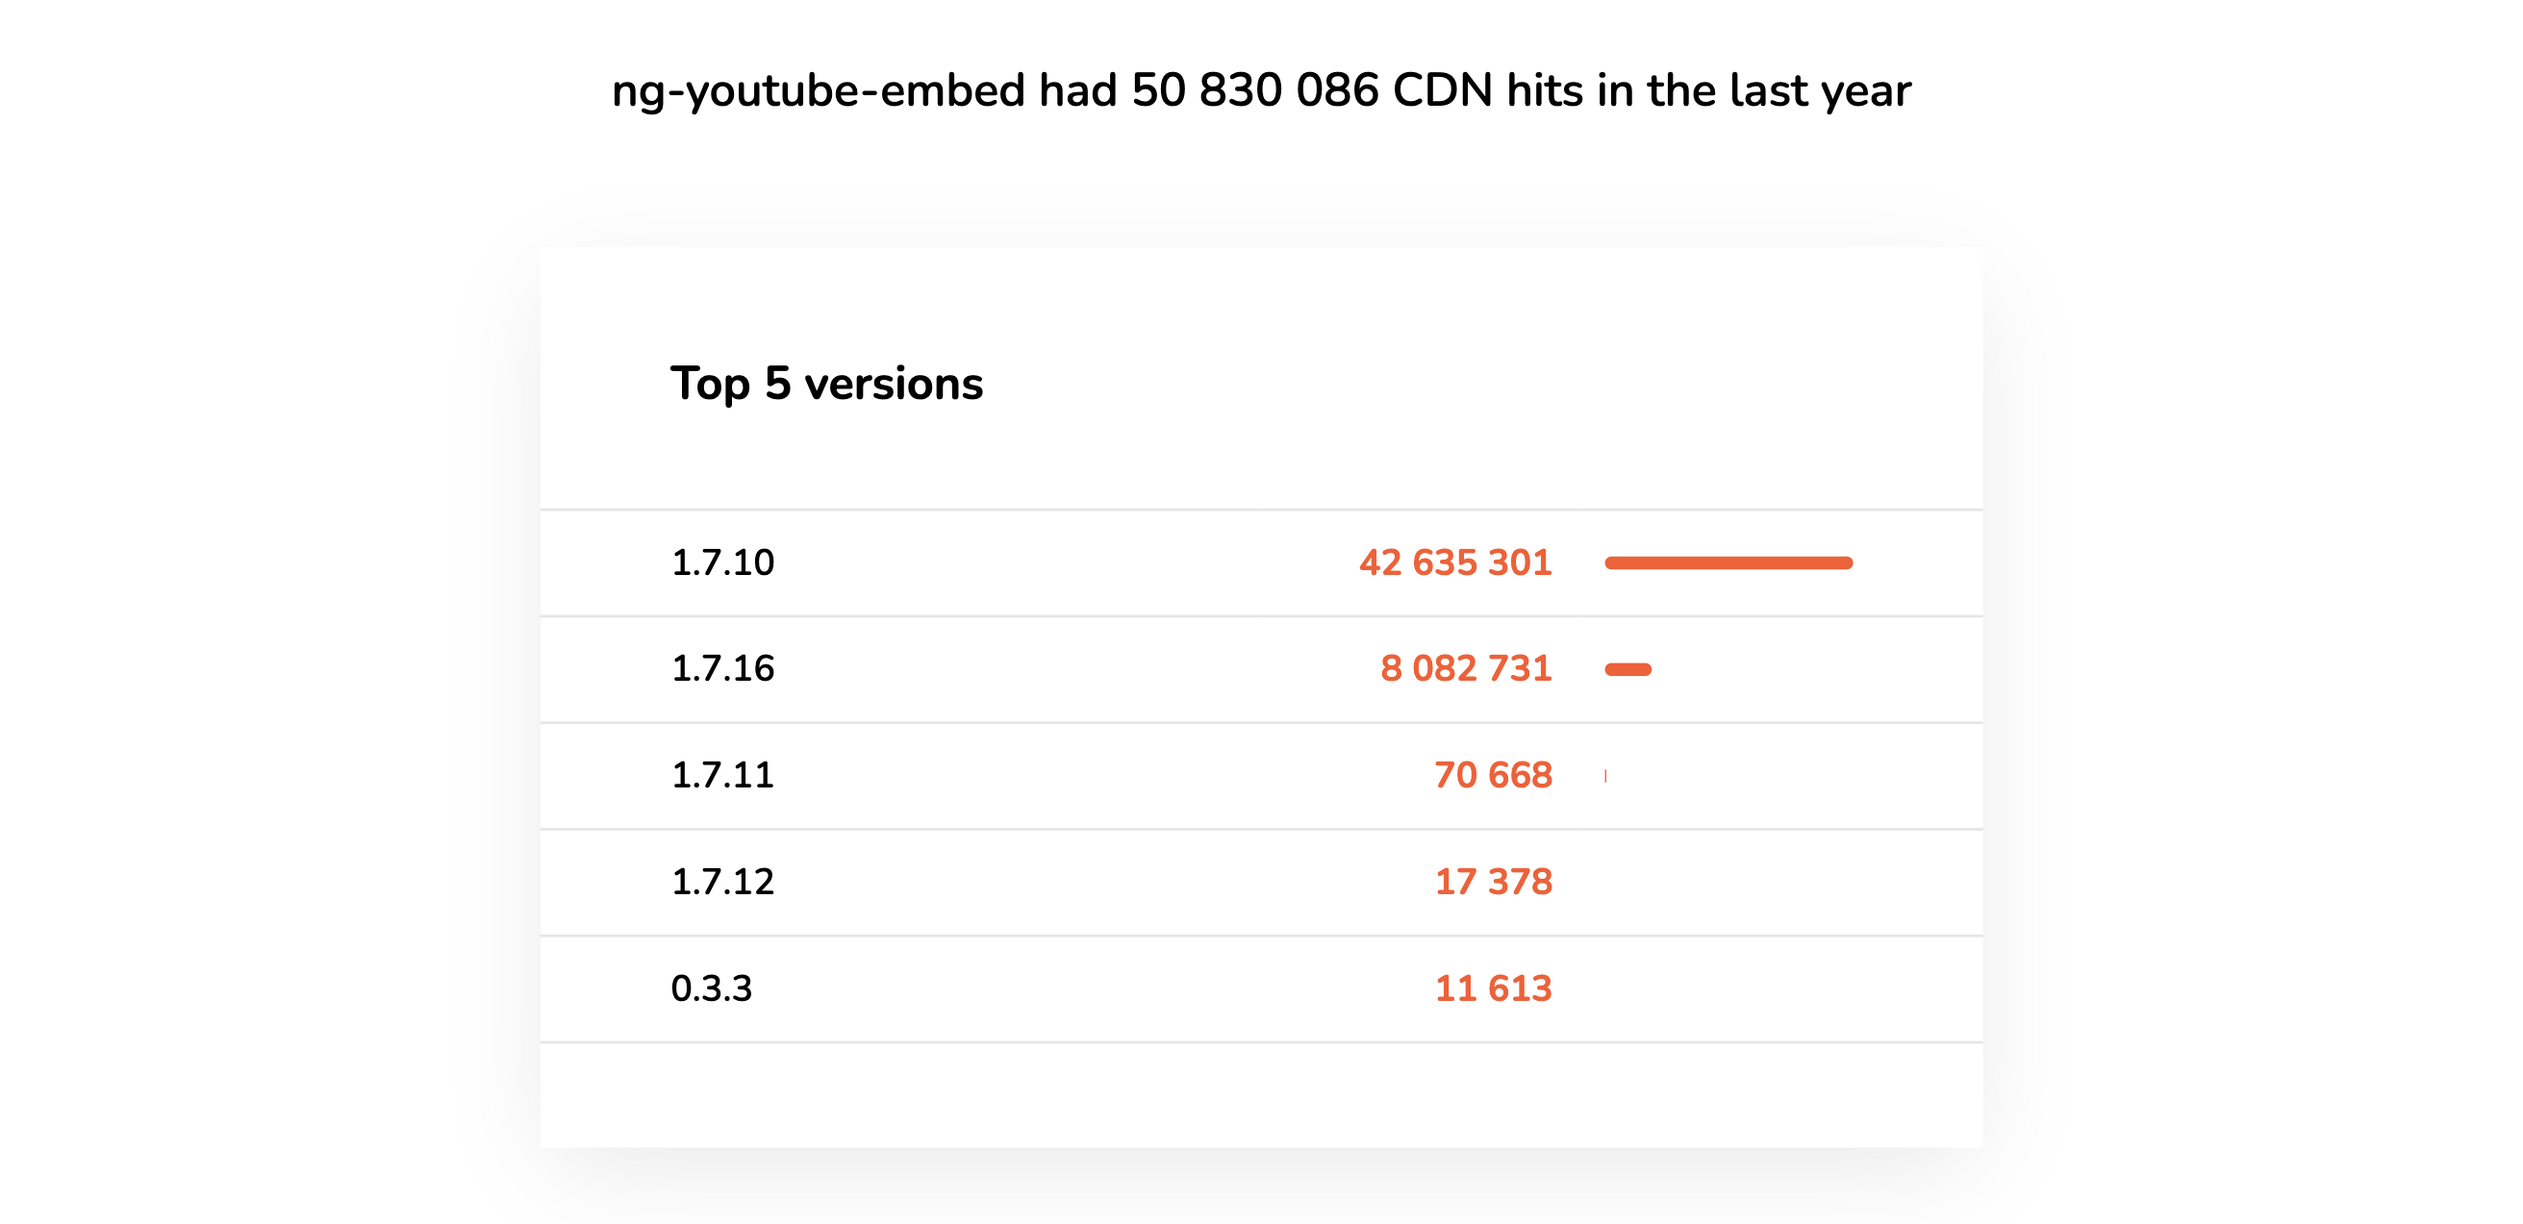
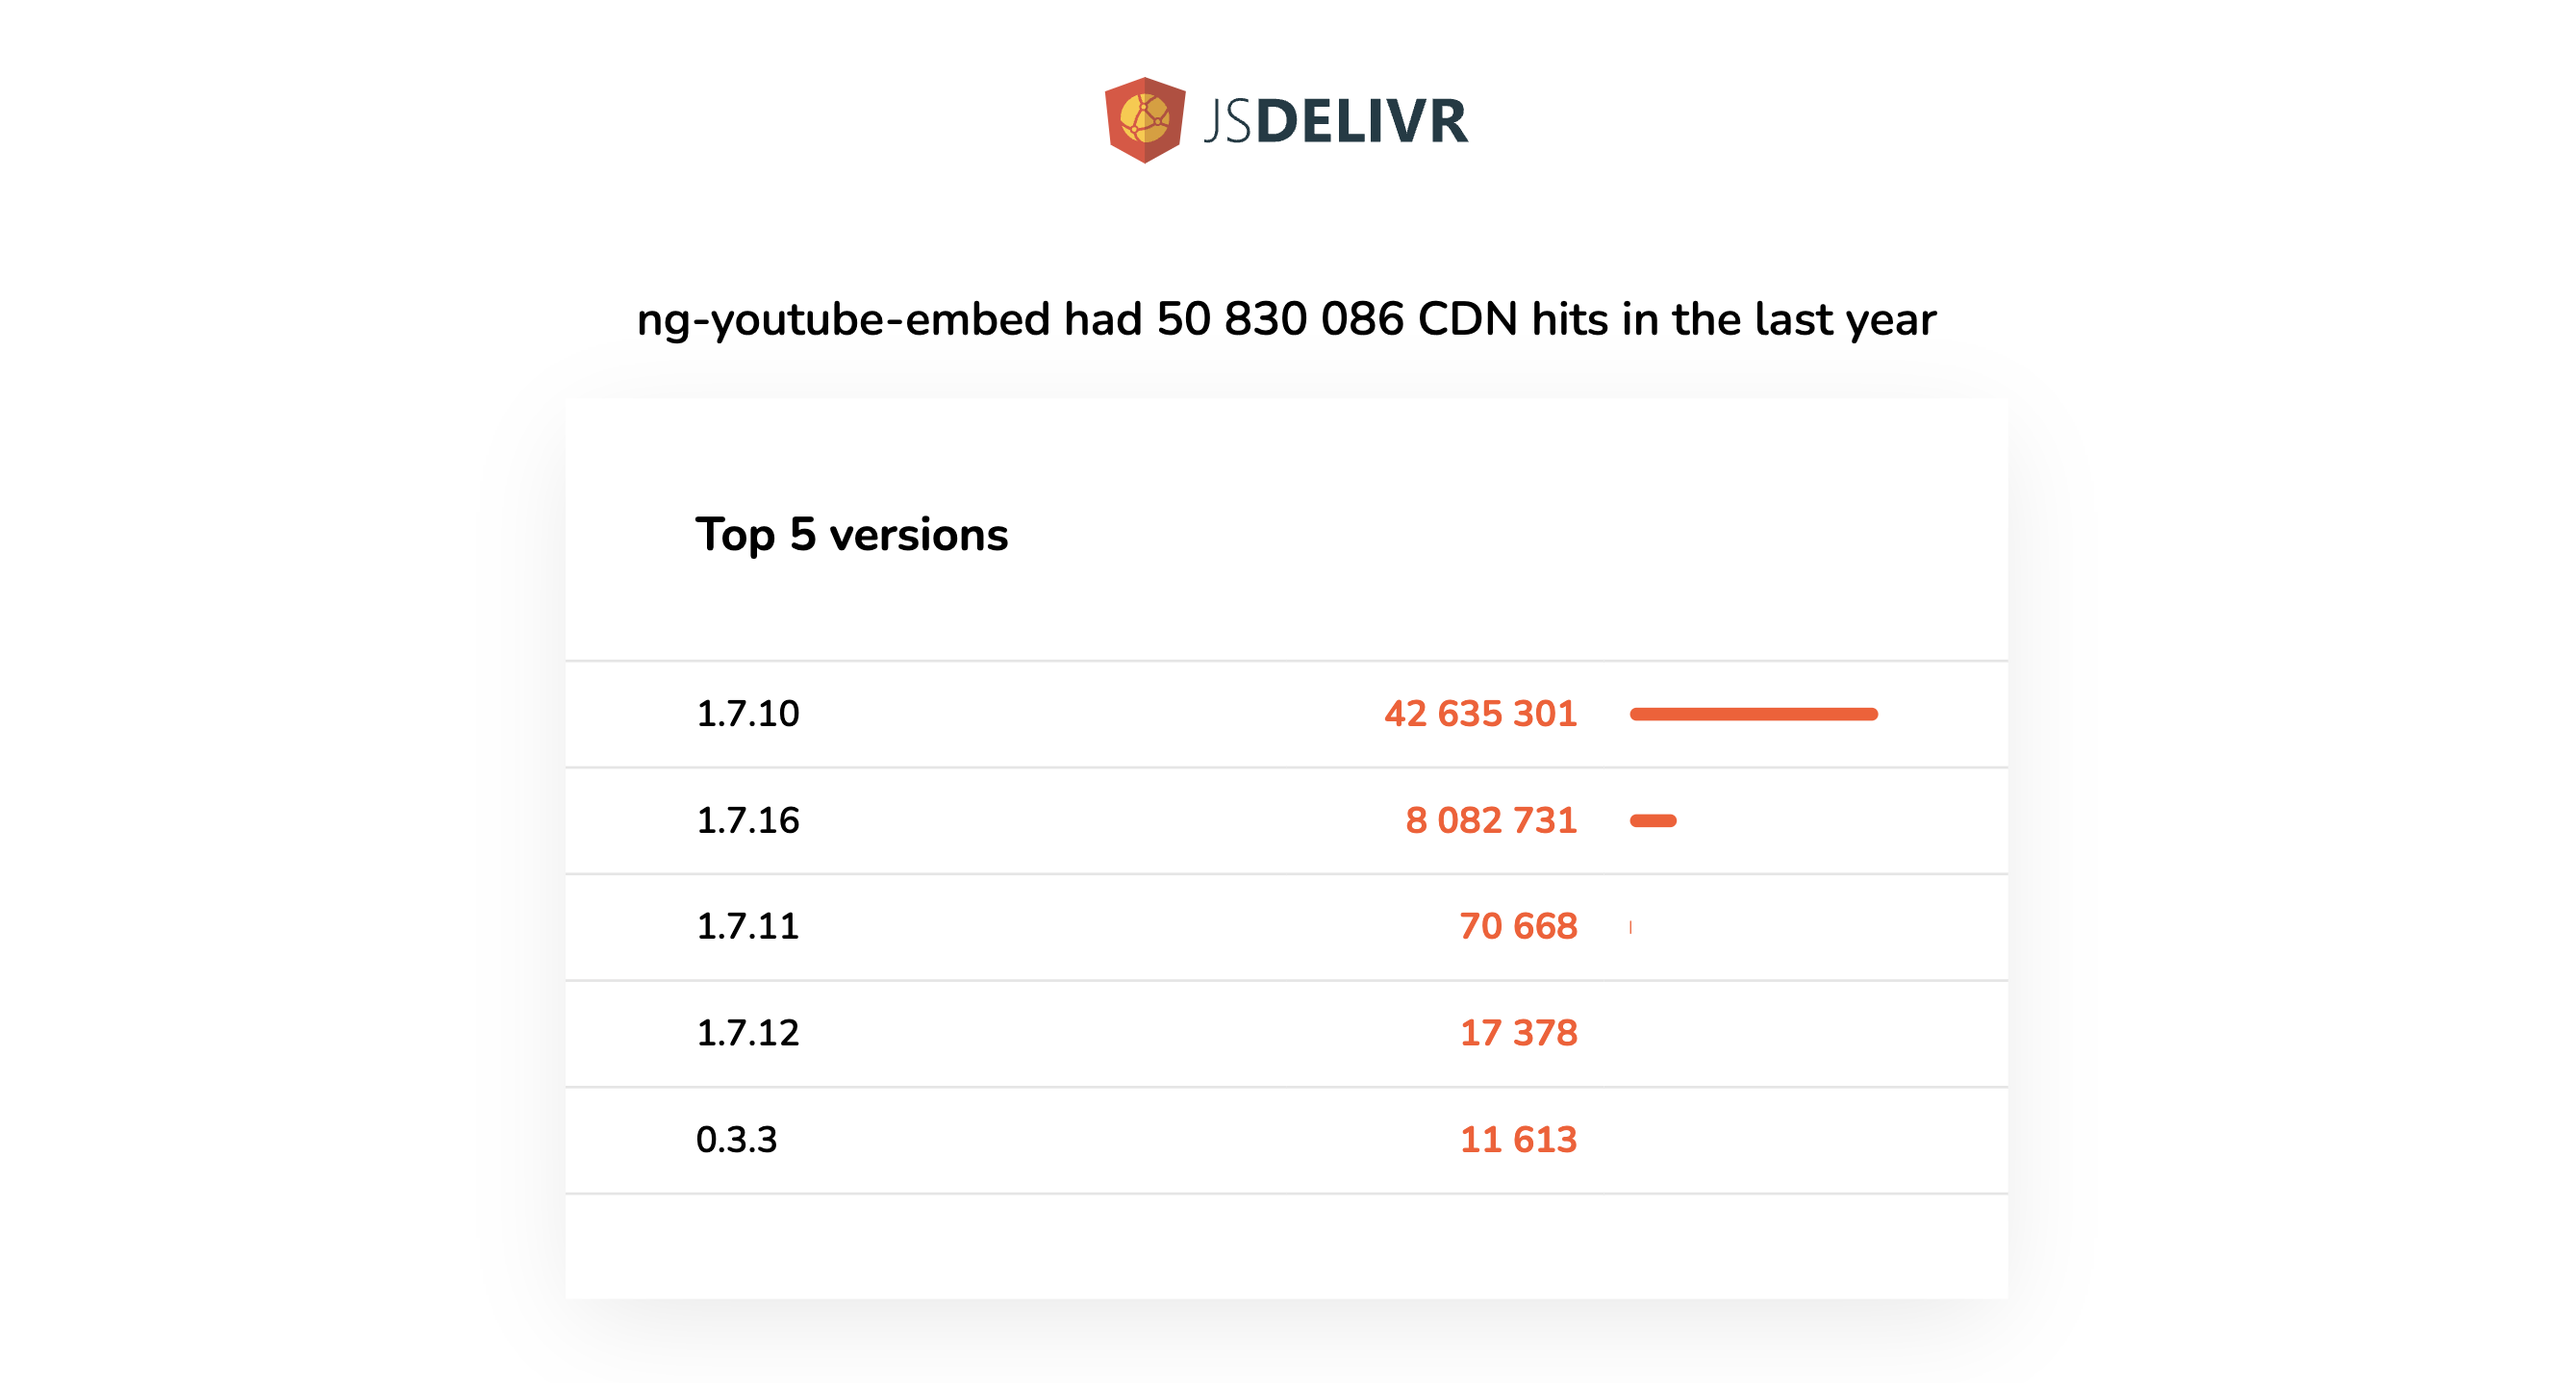
Jsdelivr stats image updated

diff --git a/README.md b/README.md
@@ -8,9 +8,9 @@ AngularJS module to embed Youtube videos with support for Youtube player paramet
 
 ### [Demo on CodePen](http://codepen.io/amdsouza92/pen/yNxyJV)
 
-<img src="https://github.com/ArunMichaelDsouza/ng-youtube-embed/raw/master/jsdelivr-logo.png" width="auto" height="auto" alt="jsdelivr logo"/>
+### Available on jsDelivr CDN (50M hits/year)
 
-50M hits/year on jsDelivr CDN.
+<img src="https://github.com/ArunMichaelDsouza/ng-youtube-embed/raw/master/jsdelivr-logo.png" width="250" height="auto" alt="jsdelivr logo"/>
 
 <img src="https://github.com/ArunMichaelDsouza/ng-youtube-embed/raw/master/jsdelivr-stats.png" width="100%" height="auto" alt="ng-youtube-embed jsdelivr stats"/>
 
